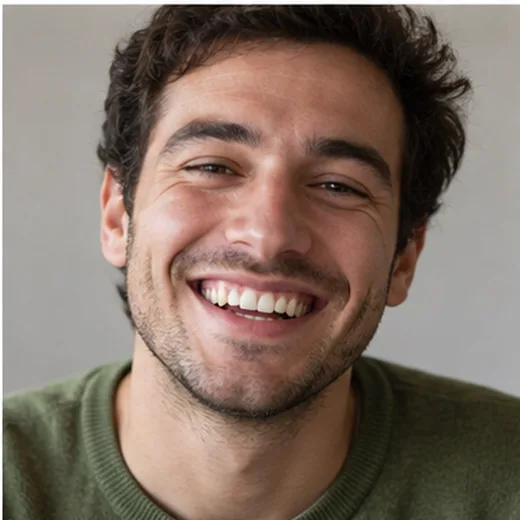
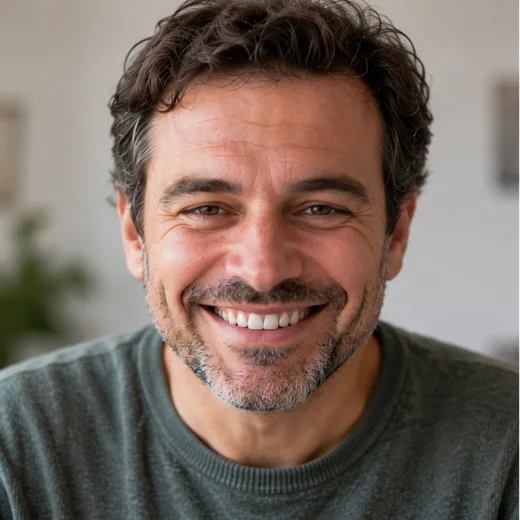
Las cuatro emociones con la misma persona
Claude-Session: https://claude.ai/code/session_01CvEZhNZHqH3HqxemkgYrFW

diff --git a/index.html b/index.html
@@ -438,7 +438,7 @@ const G={
    {tipo:'elige',q:'No encuentro las llaves. ¿Qué hago?',show:'🔑',foto:'media/banco/accion-llaves.webp',o:[[0,'Las busco donde las dejo siempre'],[0,'Rompo la puerta'],[0,'Salgo sin cerrar']],ok:0,p:'¿Qué es lo más tranquilo?',x:'Las busco donde las dejo siempre.'},
    {tipo:'elige',q:'Son las 9:00. El autobús sale a las 9:30 y tardo 20 minutos. ¿Llego?',show:'🕘',o:[[0,'Sí'],[0,'No']],ok:0,p:'Nueve y veinte es antes que nueve y media.',x:'Sí, llego a las nueve y veinte.'},
    {tipo:'repite',t:'Mañana vamos al médico',sil:'Mañana… vamos… al médico'},
-   {tipo:'elige',q:'¿Cómo se siente?',show:'😲',foto:'media/banco/accion-sorprendida.webp',o:[[0,'sorprendida'],[0,'aburrida'],[0,'dormida']],ok:0,p:'Mira su boca abierta.',x:'Está sorprendida.'}]
+   {tipo:'elige',q:'¿Cómo se siente?',show:'😲',foto:'media/banco/accion-sorprendido.webp',o:[[0,'sorprendido'],[0,'aburrido'],[0,'dormido']],ok:0,p:'Mira su boca abierta.',x:'Está sorprendido.'}]
  }
 };
 const NIVELES={1:'Más apoyo',2:'Intermedio',3:'Más reto'};
